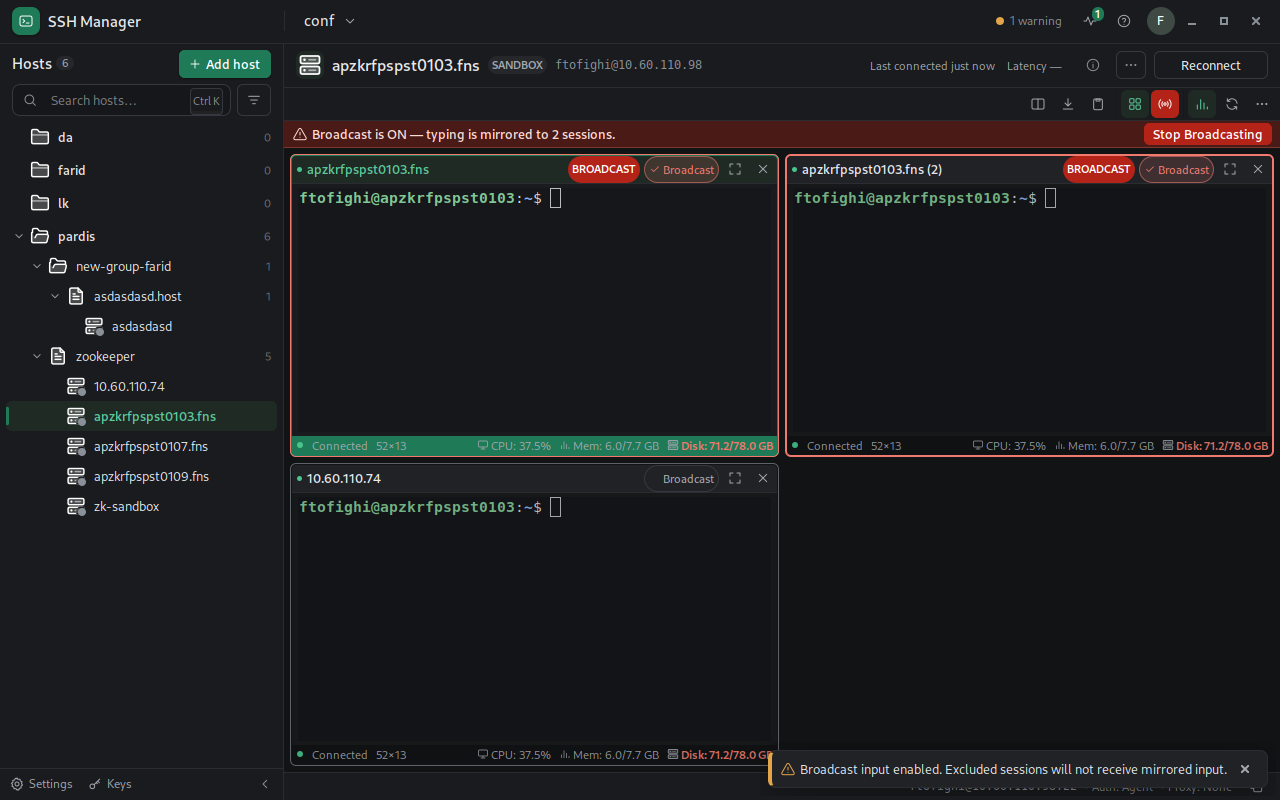
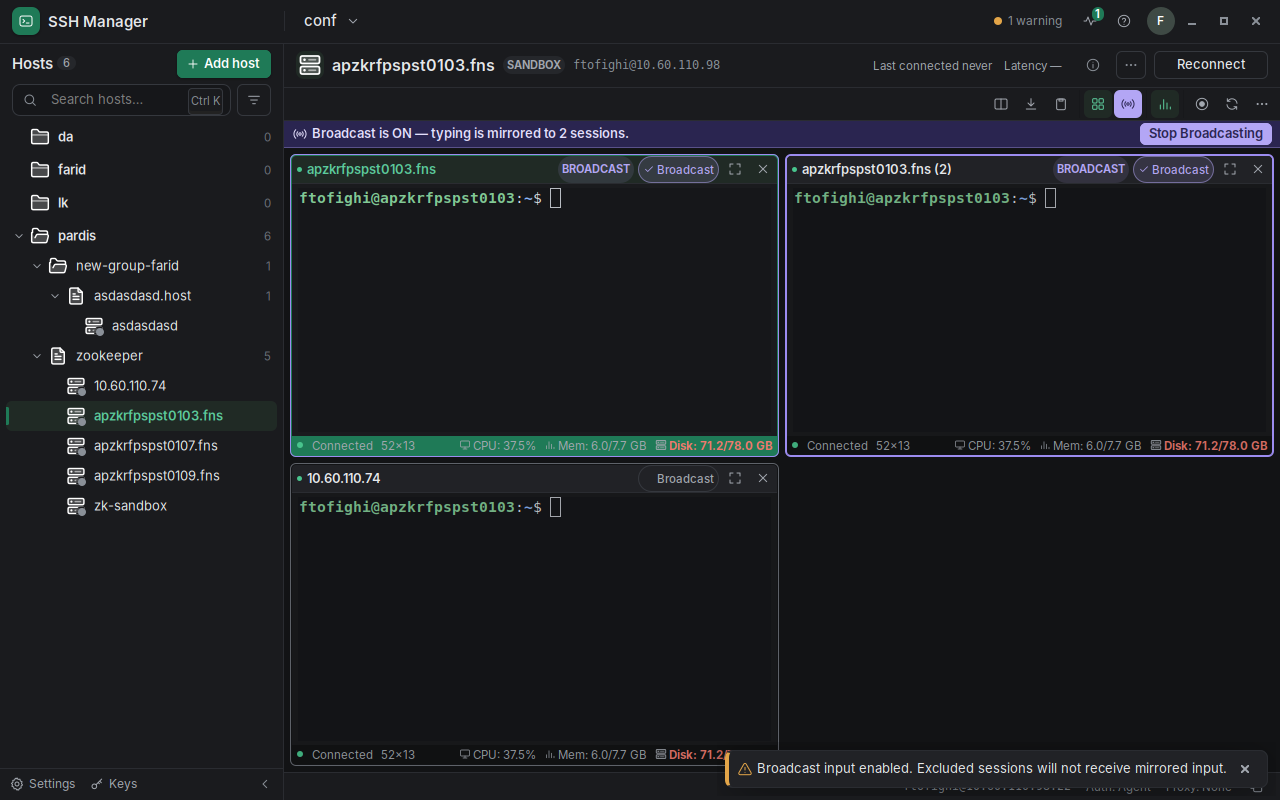
Docs: the violet broadcast colour, new screenshots
ui-design-system.md: the broadcast role (violet = broadcast; red =
errors only) and the new values. Screenshots: broadcast-violet-{dark,
light} (tiles: focused + included with both rings, included, excluded,
and a failed session with its red border next to them) and
broadcast-strip-{dark,light}; main-broadcast and tile-broadcast-* are
re-rendered with the new colours. tools/ui_snapshots.py renders them.
CHANGELOG-UI.

diff --git a/tools/ui_snapshots.py b/tools/ui_snapshots.py
@@ -37,7 +37,7 @@ import gi  # noqa: E402
 gi.require_version("Gtk", "3.0")
 gi.require_version("Gdk", "3.0")
 gi.require_version("Vte", "2.91")
-from gi.repository import Gdk, Gio, GLib, Gtk  # type: ignore  # noqa: E402
+from gi.repository import Gdk, GdkPixbuf, Gio, GLib, Gtk  # type: ignore  # noqa: E402
 
 SAMPLE_INVENTORY = {
     "production/web.conf": """Host web-01
@@ -1330,6 +1330,8 @@ def run(out_dir: Path) -> None:
             "tile-four": [host, host, other, other],
             "tile-broadcast": [host, host, other],
             "duplicate-session": [host, host],
+            # Broadcast's violet next to the red of a failed session (docs/ui-design-system.md).
+            "broadcast-violet": [host, host, other, other],
         }[kind]
         tabs = []
         for target in hosts:
@@ -1345,8 +1347,48 @@ def run(out_dir: Path) -> None:
         if kind == "tile-broadcast":
             notebook.set_broadcast_mode(True)
             notebook._tile_wrappers[tabs[2]].include.set_active(False)  # one session left out
+        if kind.startswith("broadcast-"):
+            notebook.set_broadcast_mode(True)
+            notebook._tile_wrappers[tabs[2]].include.set_active(False)  # excluded
+            if kind == "broadcast-violet":
+                tabs[3]._set_status("Connection failed", False)  # red: a real problem
+                notebook._tile_wrappers[tabs[3]].include.set_active(False)  # its own (red) border shows
         notebook.focus_tab(tabs[0])
         _pump()
+
+    def _strip_area(window, area: list):
+        """``on_rendered`` hook: where the broadcast strip is in the rendered image."""
+
+        def hook(holder) -> None:
+            strip = window.terminal_tabs._broadcast_strip
+            x, y = strip.translate_coordinates(holder, 0, 0)
+            allocation = strip.get_allocation()
+            area[:] = [x, y, allocation.width, allocation.height]
+
+        return hook
+
+    def _crop_strip(path: Path, area: list, crop: Path) -> None:
+        """The broadcast strip (and the row above it) cut out of ``path``."""
+
+        x, y, width, height = area
+        image = GdkPixbuf.Pixbuf.new_from_file(str(path))
+        top = max(0, y - 40)
+        image.new_subpixbuf(x, top, min(image.get_width() - x, max(width, 600)),
+                            min(image.get_height() - top, height + 48)).savev(str(crop), "png", [], [])
+
+    for kind in ("broadcast-violet",):
+        for theme, dark in (("dark", True), ("light", False)):
+
+            @scenario(f"{kind}-{theme}")
+            def _violet(kind=kind, theme=theme, dark=dark) -> None:
+                window = _make_window(app, density_base, dark, "comfortable")
+                _pane_scene(window, kind)
+                path = out_dir / f"{kind}-{theme}.png"
+                area: list = []
+                capture_window(window, path, 1280, 800, on_rendered=_strip_area(window, area))
+                if kind == "broadcast-violet" and area:
+                    _crop_strip(path, area, out_dir / f"broadcast-strip-{theme}.png")
+                window.destroy()
 
     for kind in ("split-two-panes", "tile-two", "tile-four", "tile-broadcast", "duplicate-session"):
         for theme, dark in (("dark", True), ("light", False)):

diff --git a/docs/ui-design-system.md b/docs/ui-design-system.md
@@ -34,11 +34,12 @@ every color role becomes `@define-color sm_<role>`.
 | `focus_ring` | `#176B4D` | `#5CCB9C` | 2 px focus ring |
 | `chip_bg` | `#F1F4F2` | `#25272B` | Chips |
 | `avatar_bg` | `#233B32` | `#3F4A45` | User avatar |
-| `broadcast_bg` / `broadcast_fg` | `#FDECEA` / `#8F1D14` | `#4A1A16` / `#FFDAD5` | Broadcast warning strip |
+| `broadcast` | `#5B47B8` | `#B3A6F5` | Broadcast's identity colour (violet): the strip's line, the toolbar toggle, the strip's Stop button, the checked Broadcast chip, the `BROADCAST` badge. **Violet = broadcast; red = errors only** |
+| `broadcast_bg` / `broadcast_fg` | `#F0EDFB` / `#3B2D86` | `#2A2550` / `#E4DFFC` | Broadcast strip (9.6:1 / 11.0:1) |
 | `icon_default` (aliases: `icon_group`, `icon_file`, `icon_host`, `icon_host_selected`) | `#18231F` | `#FFFFFF` | Every group and host icon, in every row state (Phase 9b); a user-picked item color overrides it |
 | `badge_connected` / `badge_unknown` | `#2A9D6A` / `#848E88` | `#48C48D` / `#8A9098` | Host status badge (connecting and failed use `warning` / `danger`); light values are the nearest shades of `success` / `text_muted` that reach 3:1 on the selected row |
 | `scrollbar` | `#C9D2CD` | `#454951` | Overlay scrollbar thumb |
-| `pane_border` / `pane_border_focus` / `pane_border_broadcast` | `#868F8A` / `#176B4D` / `#B42318` | `#5E6269` / `#1F7A57` / `#F07A6E` | Pane outlines in split and tile mode (all ≥ 3:1 against the gutter) |
+| `pane_border` / `pane_border_focus` / `pane_border_broadcast` | `#868F8A` / `#176B4D` / `#6A55C9` | `#5E6269` / `#1F7A57` / `#9C8CF0` | Pane outlines in split and tile mode (all ≥ 3:1 against the gutter) |
 | `pane_header_bg` / `pane_header_bg_focus` | `#FFFFFF` / `#EAF5EF` | `#212226` / `#202A25` | Pane header and footer; focused pane header |
 | `pane_gutter` / `pane_dim` | `#F5F7F6` / 12 % black | `#121315` / 12 % black | Gutter between panes (= `bg_canvas`); veil over unfocused panes |
 | `shadow` / `shadow_popover` | 6 % / 12 % of `#18231F` | 35 % / 45 % black | Soft elevation |
@@ -186,7 +187,7 @@ share it.
   - plain: 1 px `pane_border` with 1 px padding;
   - focused: 2 px `pane_border_focus` with an accent-tinted header;
   - broadcast (while on): 2 px `pane_border_broadcast` and a `BROADCAST` badge;
-  - focused and broadcast: 1 px danger border with a 1 px accent inner ring;
+  - focused and broadcast: 1 px broadcast (violet) border with a 1 px accent inner ring;
   - failed / disconnected: 1 px danger / warning border, with the status text
     in the footer.
 
@@ -328,7 +329,7 @@ with a token report.
 | `.empty-state`, `.ready-state`, `.empty-card`, `.empty-title`, `.empty-description`, `.empty-caption`, `button.hero` | Empty states | Ready to connect and other placeholders |
 | `notebook.session-tabs`, `.session-strip-actions`, `.session-toolbar-row`, `.terminal-card` | Terminal tab | Session strip, toolbar, terminal card |
 | `.statusbar`, `.stat-warn`, `.stat-critical`, `.stat-icon` | Live stats | Warn at 80 %, critical at 90 % |
-| `.broadcast-strip`, `.broadcast-active` | Workspace | Broadcast warning; a single session's outline while broadcasting in tabs mode |
+| `.broadcast-strip`, `.broadcast-active`, `button.broadcast-toggle` | Workspace | Broadcast strip (violet, the broadcast icon); a single session's outline while broadcasting in tabs mode; the toolbar toggle |
 | `.pane-frame` (`.focused`, `.broadcast`, `.broadcasting`, `.failed`, `.disconnected`), `.pane-header`, `.pane-footer`, `.pane-dim`, `.pane-gutter`, `paned.pane-split`, `button.broadcast-chip` | Panes | Split panes and tiles (see "Panes" below) |
 | `button.primary` / `.suggested-action`, `button.outlined`, `.destructive-action` | Buttons | Primary, secondary, destructive |
 | `popover.sm-popover`, `.popover-menu-item`, `menuitem .menu-icon`, `.accel-hint`, `menuitem.destructive` | Menus | Popovers and menus |

diff --git a/CHANGELOG-UI.md b/CHANGELOG-UI.md
@@ -6,6 +6,15 @@ reference). Phase-1 screenshots are in the history of `docs/ui-after/`
 (commit b7597c5). Design reference: `docs/ui-design-system.md`. Code map:
 `docs/ui-architecture.md`.
 
+## Broadcast colour
+
+- Broadcast mode now uses a violet highlight instead of the red error colour:
+  the strip (with the broadcast icon instead of a warning triangle, same
+  text), its Stop button, the toolbar toggle, pane outlines, the Broadcast
+  chip and the `BROADCAST` badge. Red is left for real problems (failed
+  sessions, errors, destructive actions, critical statistics). Screenshots:
+  `docs/ui-after/broadcast-violet-*.png`, `broadcast-strip-*.png`.
+
 ## Terminal macros
 
 Details: `docs/macros.md`.
